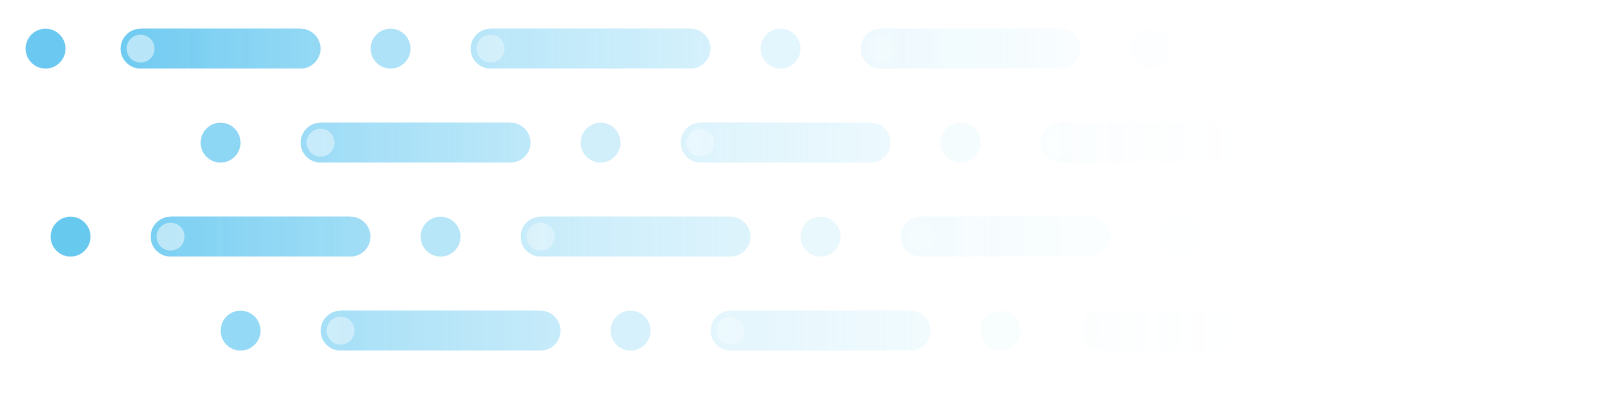
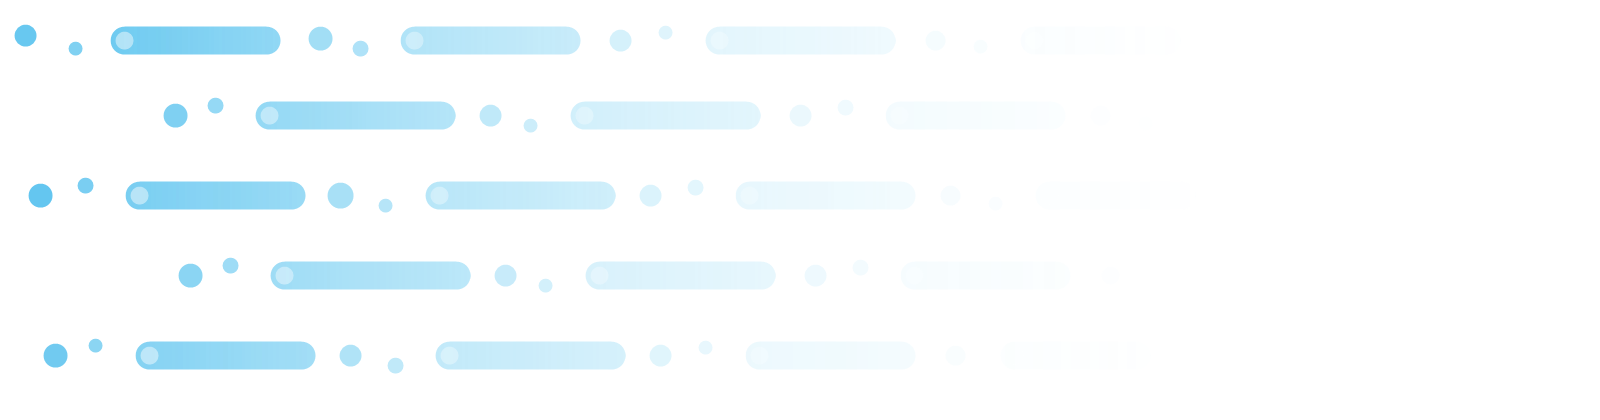
Refine hero background: smaller dots with lively count, fading from medium to light cyan

diff --git a/test.html b/test.html
@@ -357,7 +357,7 @@
             border-bottom: 1px solid rgba(0, 74, 173, 0.12);
         }
 
-        /* Non-repeating flowing capsule background: fewer dots, medium cyan on left fading to lighter on right */
+        /* Non-repeating flowing capsule background: smaller dots, medium cyan on left fading to lighter on right */
         .hero-editorial-pattern {
             position: absolute;
             top: 0;
@@ -366,7 +366,7 @@
             right: 0;
             width: 100%;
             height: 100%;
-            background-image: url('assets/hero-capsules-flow.png');
+            background-image: url('assets/hero-capsules-flow.png?v=2');
             background-repeat: no-repeat;
             background-size: cover;
             background-position: left center;
